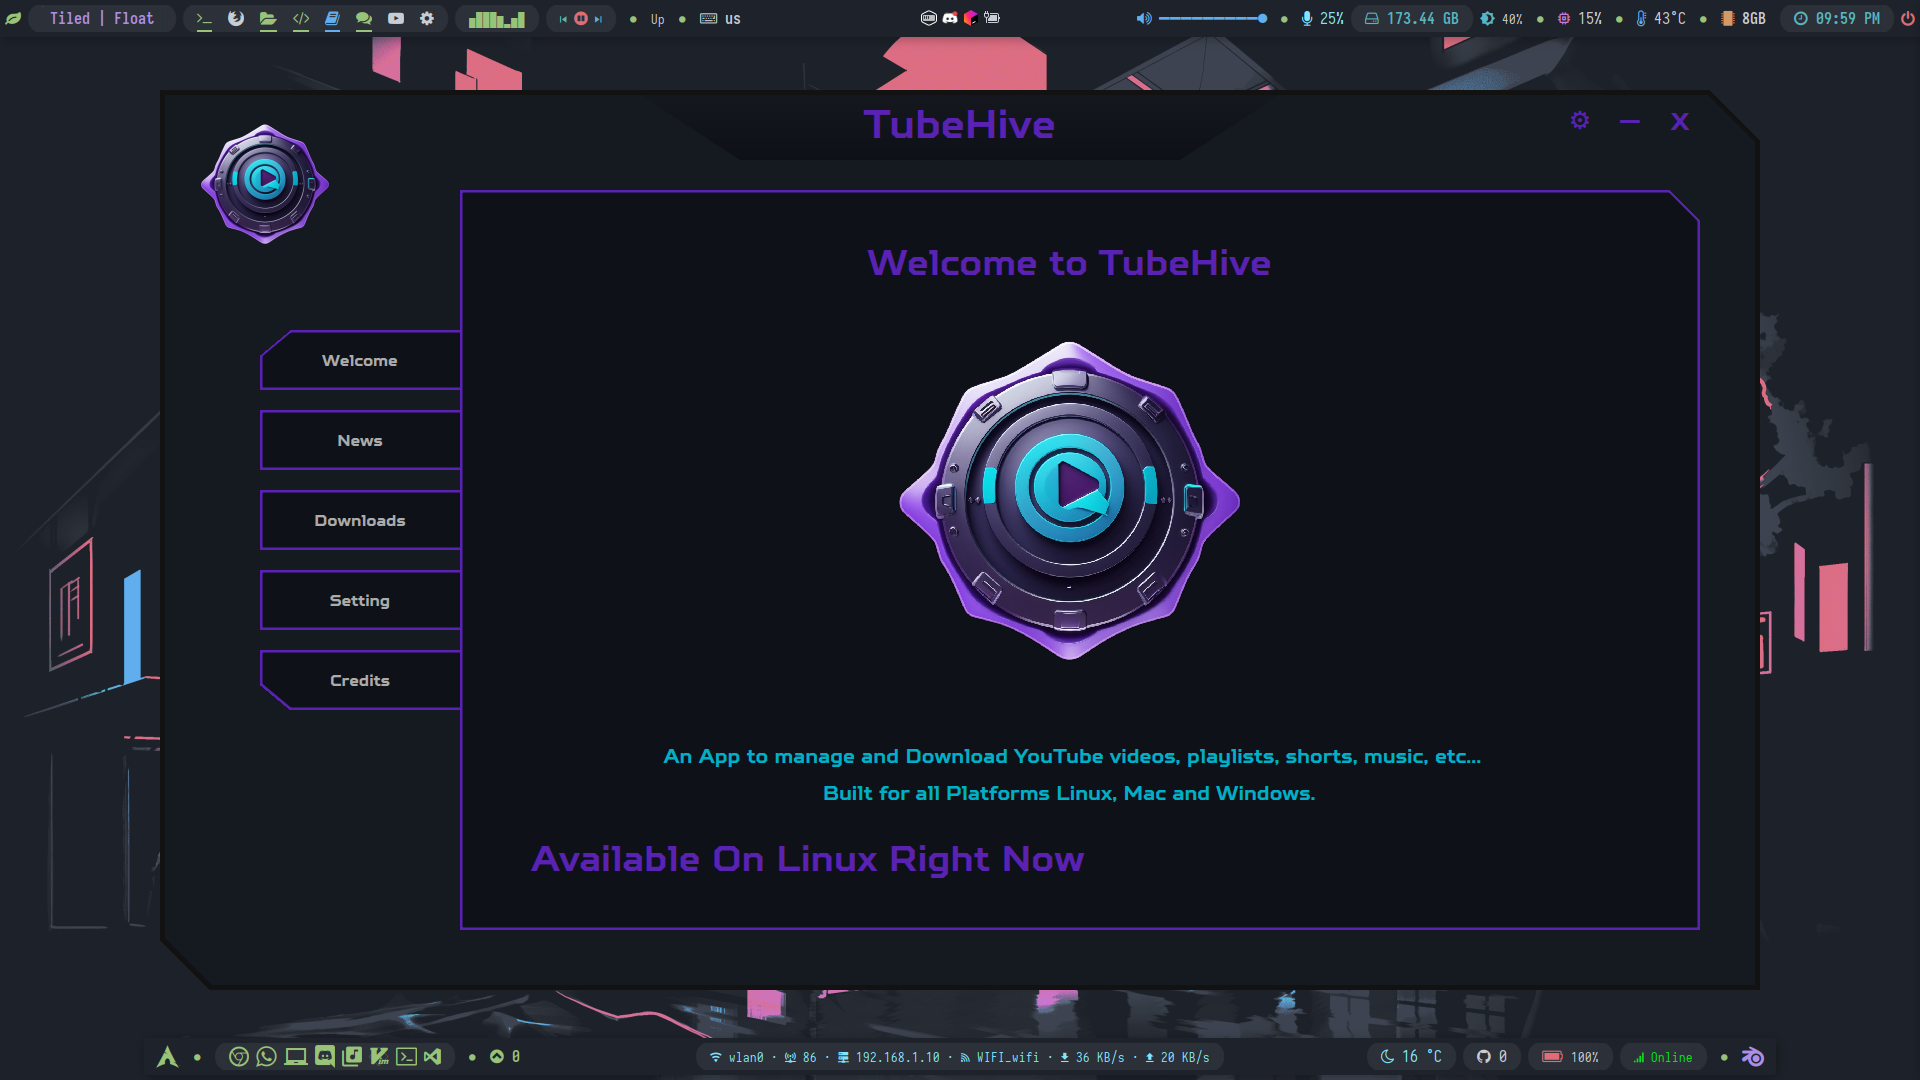
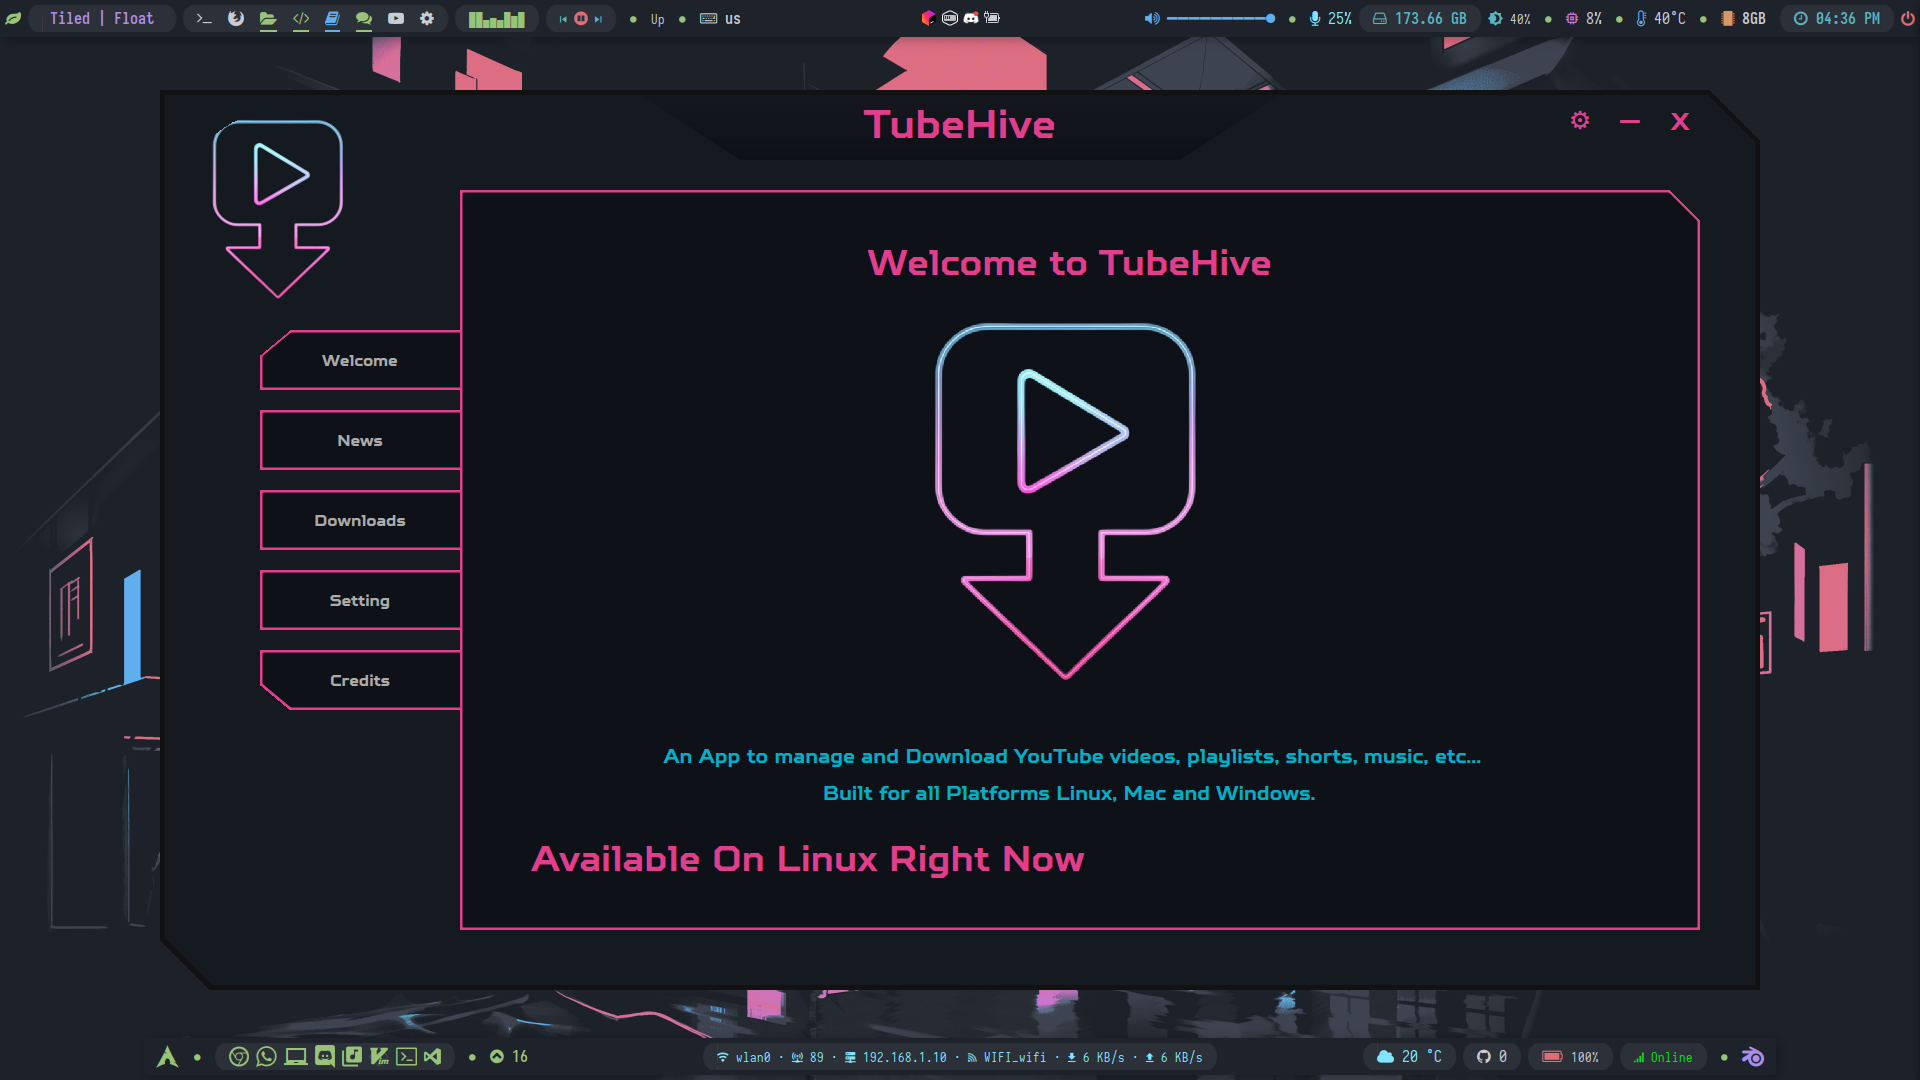
[1;36m==> modified : preview.png [0m     [1;36m==> modified : src/frontend/__pycache__/add_logo.cpython-313.pyc [0m     [1;36m==> modified : src/frontend/add_logo.py [0m

diff --git a/src/frontend/add_logo.py b/src/frontend/add_logo.py
@@ -17,7 +17,7 @@ class AddLogo(QWidget):
     def __init__(self, parent=None):
         super().__init__(parent)
         # Set the geometry (position and size) of the internal window
-        self.setGeometry(30, 20, 150, 150)
+        self.setGeometry(20, 20, 200, 200)
         self.setAttribute(Qt.WA_TranslucentBackground)  # Make the background transparent
         # self.radius = min(self.width(), self.height()) // 2
 
